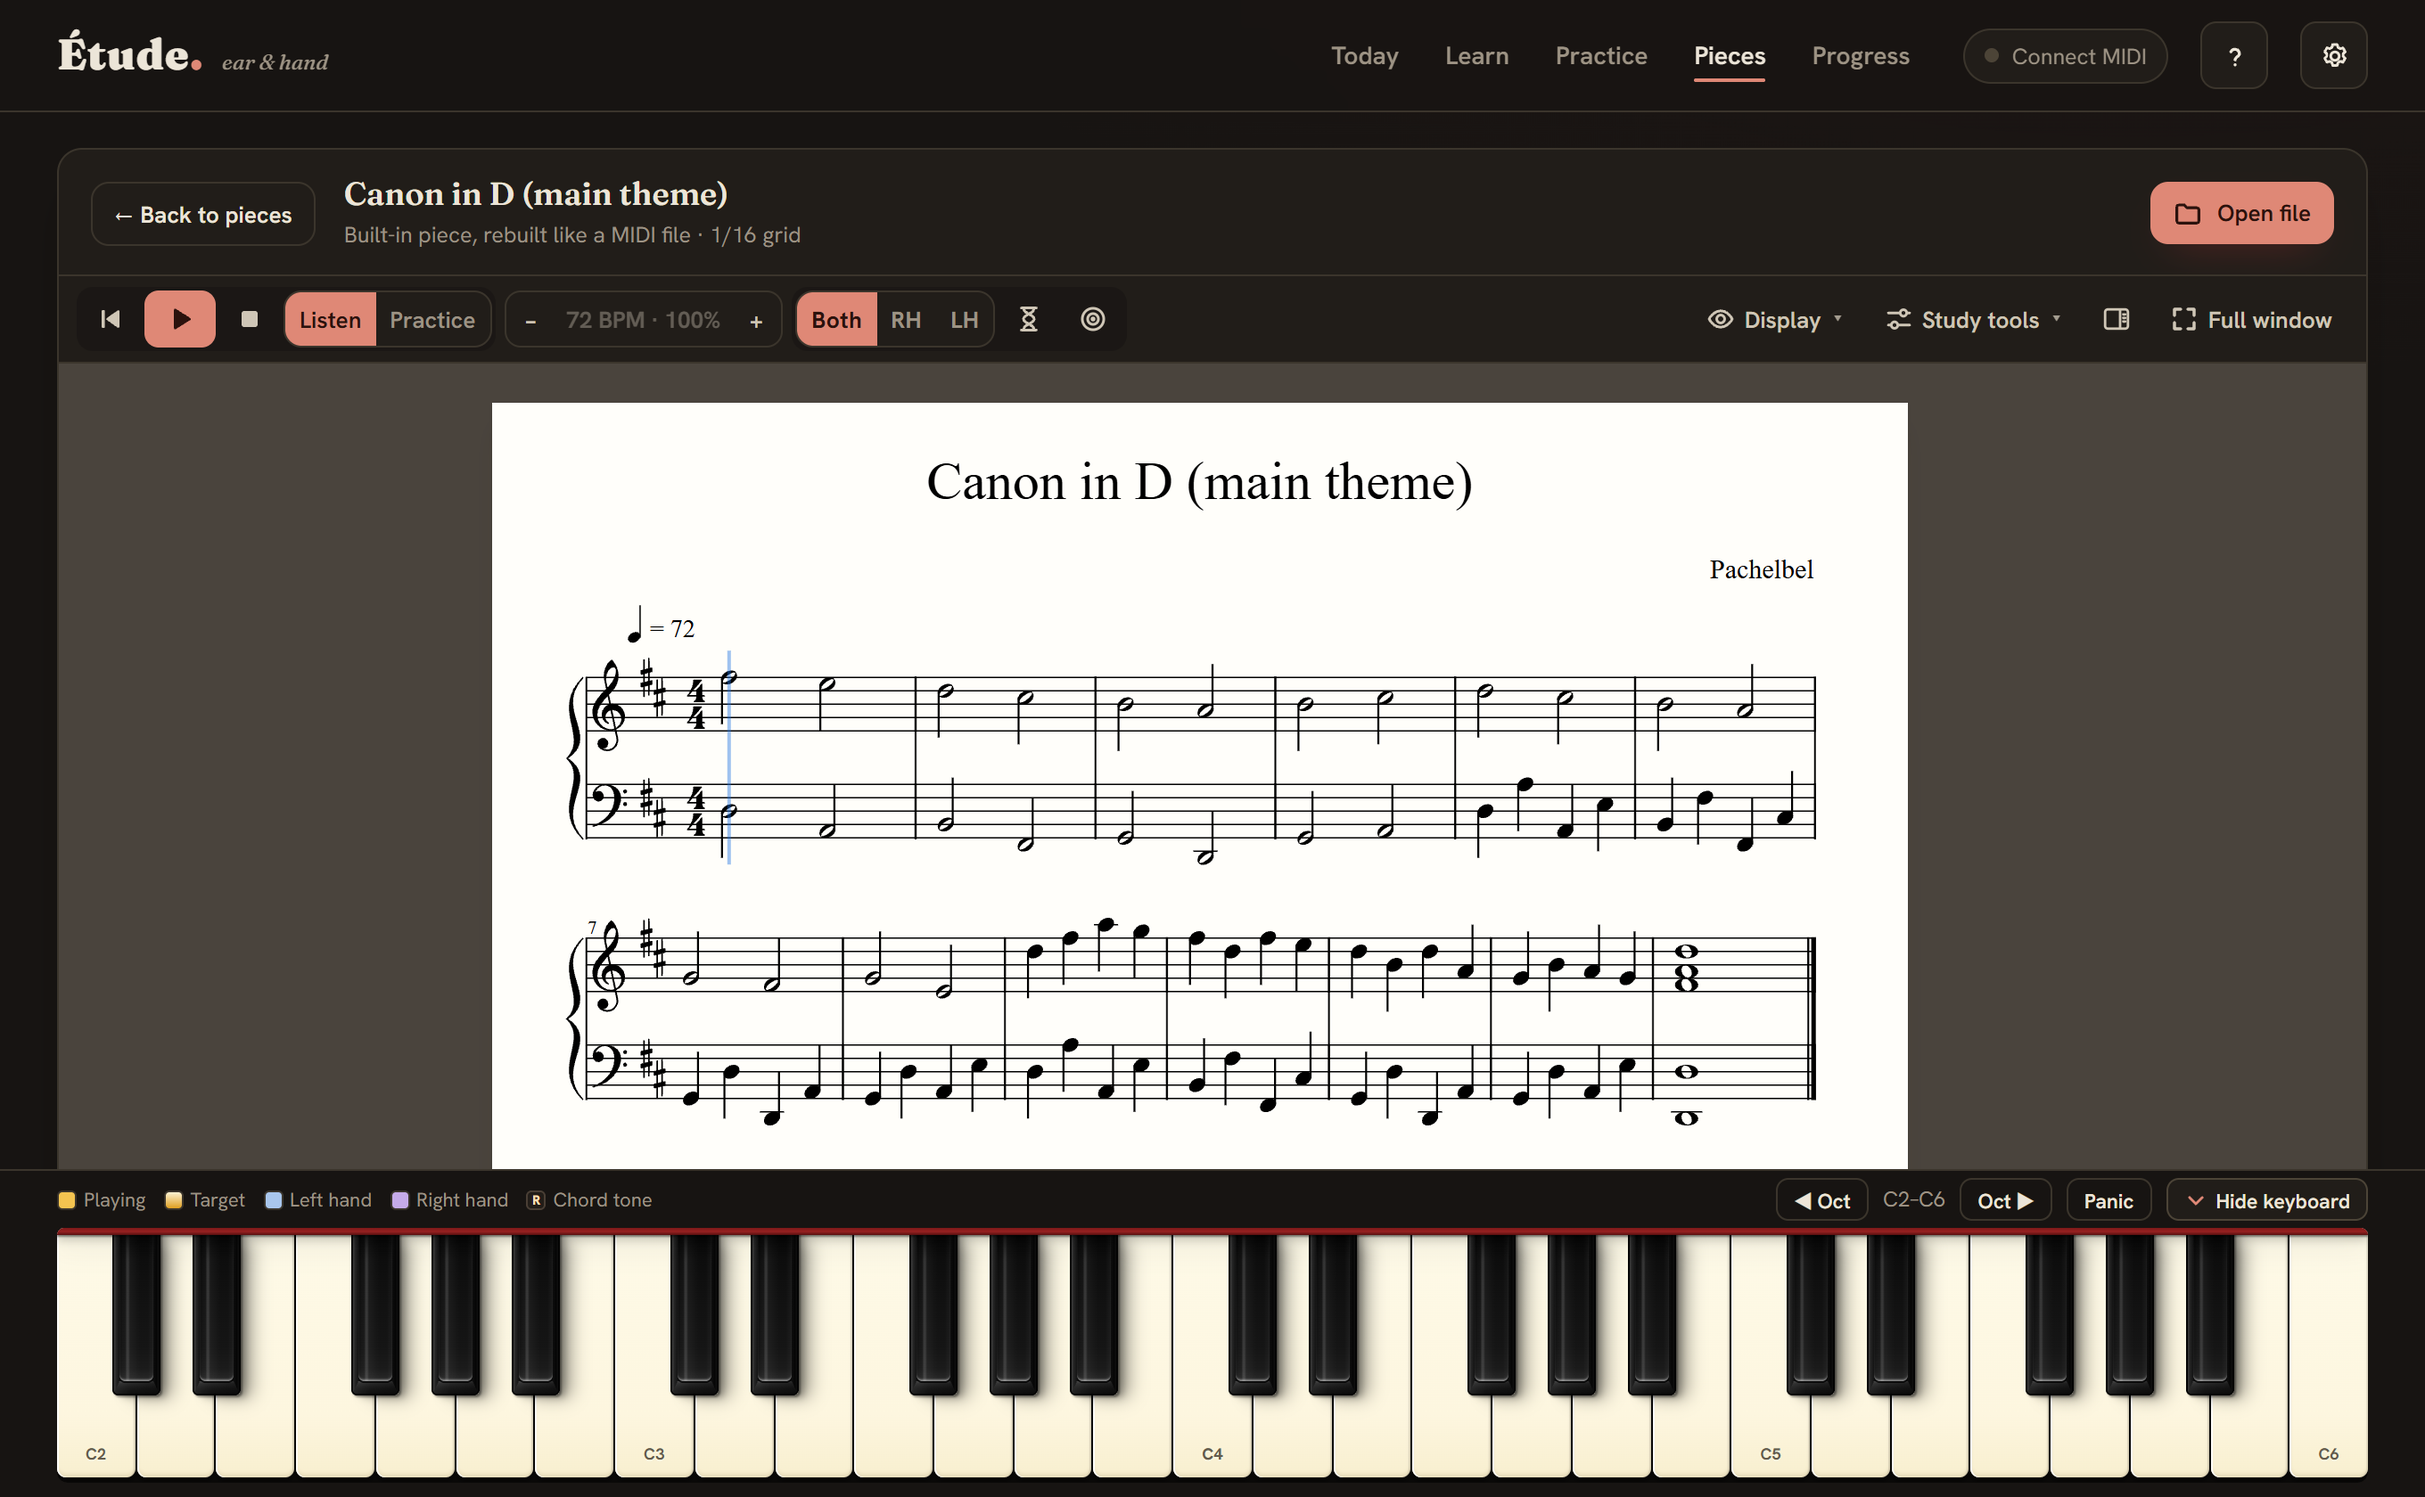
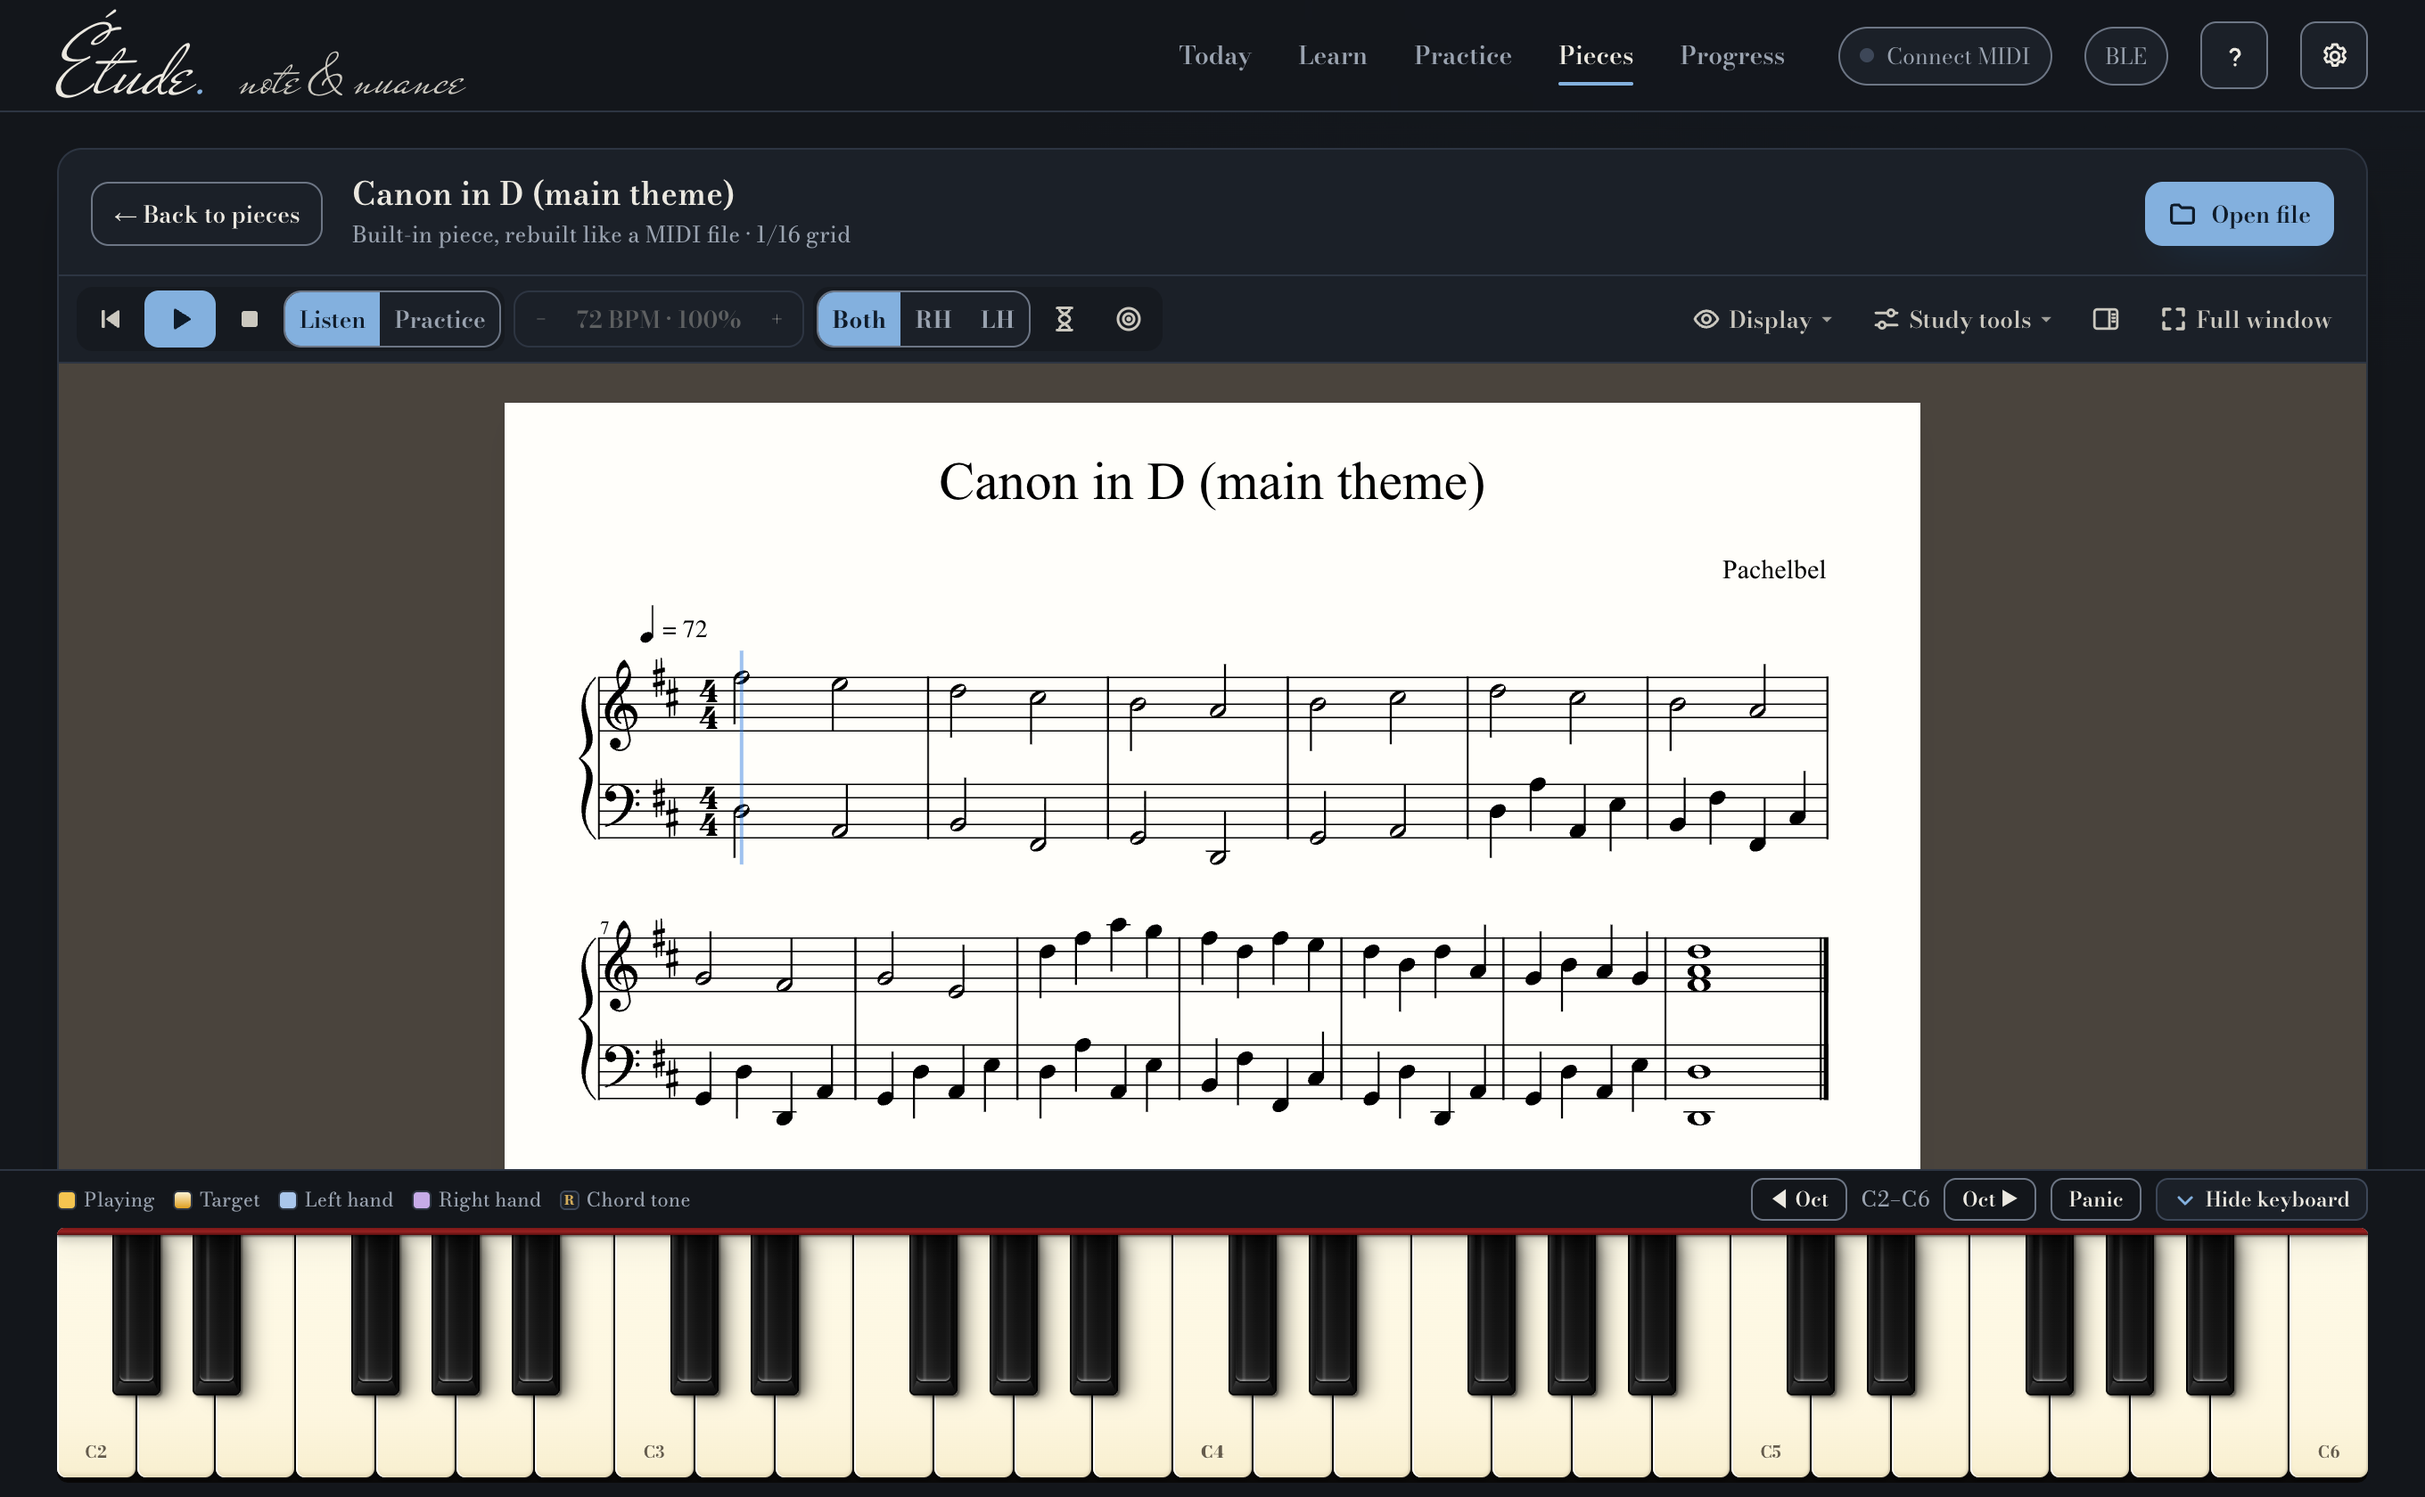
docs(readme): refresh screenshots and features for v0.7.0
- Retake all seven screenshots from the v0.7.0 production build with the
  Urtext Prussian look, and add Read & play and Learn shots.
- Describe the three Read tabs, the Today's reading plan, folding book
  units, multi-file score import, the Learn chapters and rail, one
  Settings backup with the score library, and an Accessibility row.
- Update the tagline to "note & nuance" and the source layout to the
  app, core, features and infra folders.

diff --git a/README.md b/README.md
@@ -1,7 +1,7 @@
 <div align="center">
   <img src="public/icons/icon-192.png" alt="Étude icon" width="84" height="84" />
   <h1>Étude</h1>
-  <p><strong>Ear &amp; hand</strong> — piano theory, sight-reading, ear training, and interactive score practice.</p>
+  <p><strong>Note &amp; nuance</strong> — piano theory, sight-reading, ear training, and interactive score practice.</p>
 
   <p>
     <a href="https://maurs9.github.io/etude/etude.html">
@@ -51,14 +51,16 @@
 
 | Area | What you get |
 | --- | --- |
-| **Sight-Reading (`Read`)** | 8 progressive levels across 24 keys (eighths, dotted notes, syncopation, ties). Each level includes a 96-piece generated book, 20-piece key runs, **Today's set** (5 fresh pieces/day), 24–48 bar long pieces, and a 2-minute flash-card warm-up. First-sight attempts are scored for pitch, rhythm, and timing (up to 3 stars). |
-| **Pieces & My Library (`Pieces`)** | 23 built-in pieces plus your own **MIDI** or **MusicXML** files in one unified player with tempo control, passage loops, hands separate, **Wait for me** mode, note names, mistake breakdowns, sustain-pedal grading, automatic 5-axis difficulty stars, and full-window view. |
+| **Sight-Reading (`Read`)** | Three tabs: **Reading book**, **Reading drills**, and a free **Sight-reading** generator. 8 progressive levels across 24 keys (eighths, dotted notes, syncopation, ties). Each level includes a 96-piece generated book in 12 folding units, 20-piece key runs, and a **Today's reading** plan: a 2-minute flash-card warm-up, **Today's set** (5 fresh pieces/day), and a 24–48 bar long piece. First-sight attempts are scored for pitch, rhythm, and timing (up to 3 stars), and step-by-step mode asks for chords played together. |
+| **Pieces & My Library (`Pieces`)** | 23 built-in pieces plus your own **MIDI** or **MusicXML** files (add several files or a whole folder at once) in one unified player with tempo control, passage loops, hands separate, **Wait for me** mode, note names, mistake breakdowns, sustain-pedal grading, automatic 5-axis difficulty stars, and full-window view. |
 | **Explore (`Explore`)** | Free play on a single screen pairing an interactive **Circle of Fifths** with live bass & treble staves. Hold any note or chord to identify it in Roman numerals, inspect scale fingerings, and audition the seven diatonic chords of any key. |
-| **Theory & Targeted Drills** | Open-order theory handbook, spaced-repetition daily sessions, interval drills with song hints, chord progression play-along loops, scale & arpeggio technique drills, and reading challenges (*Time Attack*, *Survival*, *Marathon*). |
+| **Learn (`Learn`)** | 22 short chapters in 8 units, each with play buttons that light up the keyboard, a chapter check, and a cheat sheet. On wide screens a side rail shows the chapter outline and the cheat sheet. Includes a glossary and the **Method** page. |
+| **Targeted Drills** | Spaced-repetition daily sessions, interval drills with song hints, chord progression play-along loops, scale & arpeggio technique drills, and reading challenges (*Time Attack*, *Survival*, *Marathon*). |
 | **Voice (`Voice`)** | Sight-sing a melody from the staff with live pitch feedback, or hum a melody and convert it back to MIDI or text. Keys or MIDI can answer in place of voice. |
 | **Error-Aware Feedback** | Wrong answers compare what you played against the target with a **Hear both** button; repeated mix-ups automatically trigger a short contrast drill at the end of the session. |
 | **Hardware MIDI & Mobile UX** | Wired **USB MIDI** and direct **Web Bluetooth MIDI** with event-time judging, auto-reconnect, and per-input latency calibration (**Settings → MIDI**). Landscape phone mode widens the keyboard dock for comfortable play. |
-| **Offline & Data Safety** | Installable PWA with offline caching, Screen Wake Lock, persistent storage requests, 3 days of automatic local backups, pre-reset/import snapshots, and JSON export/import (**Settings → Your data**). |
+| **Offline & Data Safety** | Installable PWA with offline caching, Screen Wake Lock, persistent storage requests, 3 days of automatic local backups, pre-reset/import snapshots, and one JSON backup with progress, settings, history, and the score library (**Settings → Your data → Backup**). Older progress and library backups still import. |
+| **Accessibility** | Keyboard navigation throughout (the chapter list, the circle of fifths, and the drill grid each take one Tab stop, with arrow keys inside), control borders at 3:1 contrast, small controls of at least 24 px, page titles in the interface language, and focused controls that stay clear of the phone bars. |
 
 ---
 
@@ -69,11 +71,21 @@
 <table>
   <tr>
     <td width="50%" align="center">
-      <img src="docs/screenshots/sight-reading.png" alt="Sight-reading view with generated sheet music and keyboard" width="100%" /><br />
-      <sub><strong>Sight-Reading</strong> — engraved daily sets with dynamics, instant feedback, and star grading</sub>
+      <img src="docs/screenshots/read-home.png" alt="Read and play home with Today's set and Today's reading plan" width="100%" /><br />
+      <sub><strong>Read &amp; play</strong> — Today's set, a three-step daily reading plan, and the level book</sub>
     </td>
     <td width="50%" align="center">
-      <img src="docs/screenshots/explore.png" alt="Explore view with Circle of Fifths and live grand staff" width="100%" /><br />
+      <img src="docs/screenshots/sight-reading.png" alt="Sight-reading view with generated sheet music and keyboard" width="100%" /><br />
+      <sub><strong>Sight-Reading</strong> — engraved daily sets with dynamics, reading focus, and star grading</sub>
+    </td>
+  </tr>
+  <tr>
+    <td width="50%" align="center">
+      <img src="docs/screenshots/learn.png" alt="Learn chapter with chapter list, lesson, outline and cheat sheet" width="100%" /><br />
+      <sub><strong>Learn</strong> — short chapters with play buttons, an outline, and a cheat sheet</sub>
+    </td>
+    <td width="50%" align="center">
+      <img src="docs/screenshots/explore.png" alt="Explore view with Circle of Fifths and a C major chord on the grand staff" width="100%" /><br />
       <sub><strong>Explore</strong> — interactive Circle of Fifths, live chord detection, and scale fingerings</sub>
     </td>
   </tr>
@@ -167,7 +179,12 @@ npm run test:dev
 <br />
 
 - `etude.html` — stable application shell URL
-- `src/domain/` — strict TypeScript modules (`views.ts`, `views-runtime.ts`, `router.ts`, `storage.ts`, `data-safety.ts`, `midi-timing.ts`, `technique.ts`, `technique-drill.ts`, `feedback.ts`, `theory.ts`, `audio.ts`, `notation.ts`, `dom.ts`, `practice-mistakes.ts`, `score-library-*.ts`)
+- `src/domain/views-runtime.ts` — browser entry (shell): routing, the progress write gateway, feature loading, and boot
+- `src/app/` — shell modules: keyboard dock, input bus, persistence, settings and control wiring, devices, coaching
+- `src/features/` — lazy feature slices loaded on first visit (`today`, `learn`, `practice`, `read`, `explore`, `voice`, `score-library`, `score-player`, `progress`)
+- `src/core/` — browser-free shared logic (multi-tab sync merge, spaced repetition, trainer items, reading curriculum, pitch matching, Learn progress)
+- `src/infra/` — browser and device adapters (PWA lifecycle, MIDI controller, score file drop)
+- `src/domain/` — strict TypeScript domain modules (`storage.ts` for the `ptt-v3` schema, `data-safety.ts`, `backup-transfer.ts`, `audio.ts`, `notation.ts`, `theory.ts`, `router.ts`, `midi-timing.ts`, `technique*.ts`, `feedback.ts`, `score-library-*.ts`)
 - `src/sight-reading/` — sight-reading generators, evaluation, ledger, and notation (`levels.ts`, `patterns.ts`, `rules.ts`, `melody.ts`, `book.ts`, `progress.ts`, `score.ts`, `warmup.ts`)
 - `src/locales/` — English, Romanian, German, Spanish, French, Italian, and Portuguese (BR) UI strings, lessons, and quizzes
 - `src/styles/`, `src/assets/fonts/`, `src/assets/piano/` — self-hosted font subsets, modular feature CSS, and hashed piano audio samples
